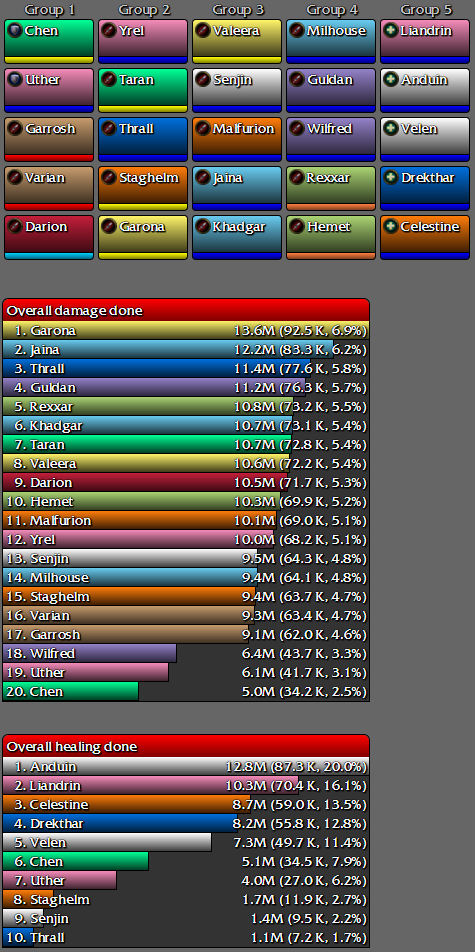
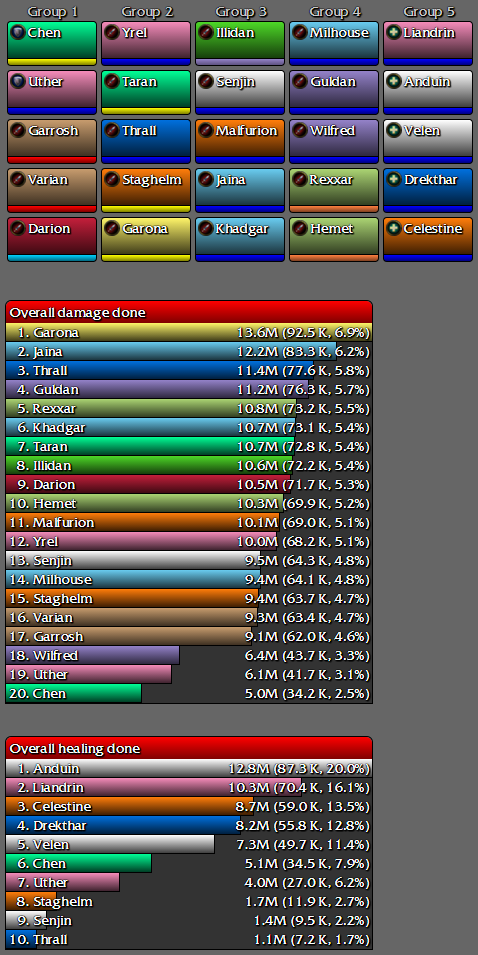
add demon hunter class because why not. guessing at what color demonic fury will be.

diff --git a/mockraid.html b/mockraid.html
@@ -20,7 +20,7 @@ $(function() {
     .add("Thrall",     "shaman",       "melee",   77.6,    7.2)
     .add("Staghelm",   "druid",        "melee",   63.7,   11.9)
     .add("Garona",     "rogue",        "melee",   92.5,    0.4)
-    .add("Valeera",    "rogue",        "melee",   72.2,    0.5)
+    .add("Illidan",    "demonhunter",  "melee",   72.2,    0.5)
     .add("Senjin",     "priest",       "ranged",  64.3,    9.5)
     .add("Malfurion",  "druid",        "ranged",  69.0,    4.9)
     .add("Jaina",      "mage",         "ranged",  83.3,    0.0)

diff --git a/mockraid.css b/mockraid.css
@@ -96,6 +96,9 @@ a:hover {
 .hunter {
   background:linear-gradient(#abd473, #334023);
 }
+.demonhunter {
+  background:linear-gradient(#4dd827, #17400c);
+}
 /* rage */
 .warrior-tank, .warrior-melee, .druid-tank {
   background:linear-gradient(#ff0000, #800000);
@@ -115,6 +118,10 @@ a:hover {
 /* focus */
 .hunter-ranged {
   background:linear-gradient(#ff8040, #804020);
+}
+/* demonic fury */
+.demonhunter-tank, .demonhunter-melee {
+  background:linear-gradient(#9482c9, #5e5280);
 }
 .meter {
   margin:0px;
